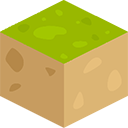
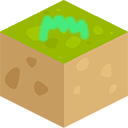
Merging succes

diff --git a/Isometric test 1/Tile.cs b/Isometric test 1/Tile.cs
@@ -14,12 +14,20 @@ public class Tile
     private bool _mouseHovered;
     private bool _mouseGrabbed;
 
+    //Create jagged array storing all recipies as their own arrays (hoveredTile,grabbedTile,resultingTile)
+    private readonly TileTypes[][] _mergeRecipies = new TileTypes[][]
+    {
+        new TileTypes[] {TileTypes.grass,TileTypes.grass,TileTypes.bush},
+        new TileTypes[] {TileTypes.bush,TileTypes.bush,TileTypes.tree},
+    };
+
 
     /// <summary>
     /// An enum state machine that stores the current type of the tile
     /// </summary>
     public enum TileTypes
     {
+        empty,
         grass,
         bush,
         tree,
@@ -85,13 +93,43 @@ public class Tile
     /// </summary>
     /// <param name="hoveredTile"></param>
     /// <param name="grabbedTile"></param>
-    public void CheckTileMerge(Tile hoveredTile, Tile grabbedTile)
+    public void CheckTileMerge(Tile hoveredTile)
     {
         //First check if merge is possible
         //Return the index in array if one is found
         //Merge them
 
+        var recipeFound = false;            //Tells whether or not a merge recipe was found
+        var recipeIndex = 0;                //Tracks which recipe is currently being checked for possible merge
 
+        foreach (TileTypes[] tileArray in _mergeRecipies)
+        {
+            if (tileArray[0] == this._tileType)
+            {
+                if (tileArray[1] == hoveredTile._tileType)
+                {
+                    recipeFound = true;
+                    break;
+                }
+            }
+            else if (tileArray[1] == this._tileType)
+            {
+                if (tileArray[0] == hoveredTile._tileType)
+                {
+                    recipeFound = true;
+                    break;
+                }
+            }
+
+            //Update index/count of current recipe
+            recipeIndex++;
+        }
+
+        if (recipeFound == true)
+        {
+            //this._tileType = TileTypes.empty;
+            hoveredTile._tileType = _mergeRecipies[recipeIndex][2];
+        }
     }
 
 
@@ -104,5 +142,6 @@ public class Tile
         if (_mouseHovered) color = Color.LightSlateGray;
         if (_mouseGrabbed) color = Color.Red;
         Globals.SpriteBatch.Draw(_texture, _coordinates, color);
+        Globals.SpriteBatch.DrawString(Globals.FontTest,$"{_tileType}",_coordinates,Color.White);
     }
 }

diff --git a/Isometric test 1/Map.cs b/Isometric test 1/Map.cs
@@ -54,10 +54,10 @@ namespace Isometric_test_1
             //}
 
             //CREATE TEST MAP (DELETE LATER AS IT'S ONLY FOR TESTING) <<<<<
-            _tiles[0, 0] = new(textures[2], new Point(0, 0), MapToScreen(0, 0),Tile.TileTypes.grass);
+            _tiles[0, 0] = new(textures[2], new Point(0, 0), MapToScreen(0, 0),Tile.TileTypes.bush);
             _tiles[0, 1] = new(textures[1], new Point(0, 1), MapToScreen(0, 1),Tile.TileTypes.grass);
-            _tiles[1, 0] = new(textures[5], new Point(1, 0), MapToScreen(1, 0), Tile.TileTypes.grass);
-            _tiles[1, 1] = new(textures[3], new Point(1, 1), MapToScreen(1, 1), Tile.TileTypes.grass);
+            _tiles[1, 0] = new(textures[5], new Point(1, 0), MapToScreen(1, 0), Tile.TileTypes.empty);
+            _tiles[1, 1] = new(textures[1], new Point(1, 1), MapToScreen(1, 1), Tile.TileTypes.grass);
         }
 
 
@@ -150,7 +150,8 @@ namespace Isometric_test_1
 
                     if (Vector2.Distance(_hoveredTileVector,_grabbedTileVector) <= 1)
                     {
-                        _mouseGrabbed._texture = textures[5];
+                        //_mouseGrabbed._texture = textures[5];
+                        _mouseGrabbed.CheckTileMerge(_mouseHovered);
                     }
                 }
 

diff --git a/Isometric test 1/Globals.cs b/Isometric test 1/Globals.cs
@@ -9,11 +9,19 @@ namespace Isometric_test_1
 {
     public static class Globals
     {
+        ///Global variables for use in the project by all objects
         public static float TotalSeconds { get; set; }
         public static ContentManager Content { get; set; }
 
         public static SpriteBatch SpriteBatch { get; set; }
 
+        public static SpriteFont FontTest { get; set; }
+
+
+        /// <summary>
+        /// Update total seconds elapsed
+        /// </summary>
+        /// <param name="gt"></param>
         public static void Update(GameTime gt)
         {
             TotalSeconds = (float)gt.ElapsedGameTime.TotalSeconds;

diff --git a/Isometric test 1/GameWorld.cs b/Isometric test 1/GameWorld.cs
@@ -58,6 +58,9 @@ namespace Isometric_test_1
 
             //Transfer sprite batch to be global
             Globals.SpriteBatch = _spriteBatch;
+
+            //Create test font
+            Globals.FontTest = Globals.Content.Load<SpriteFont>("FontTest");
         }
 
 
